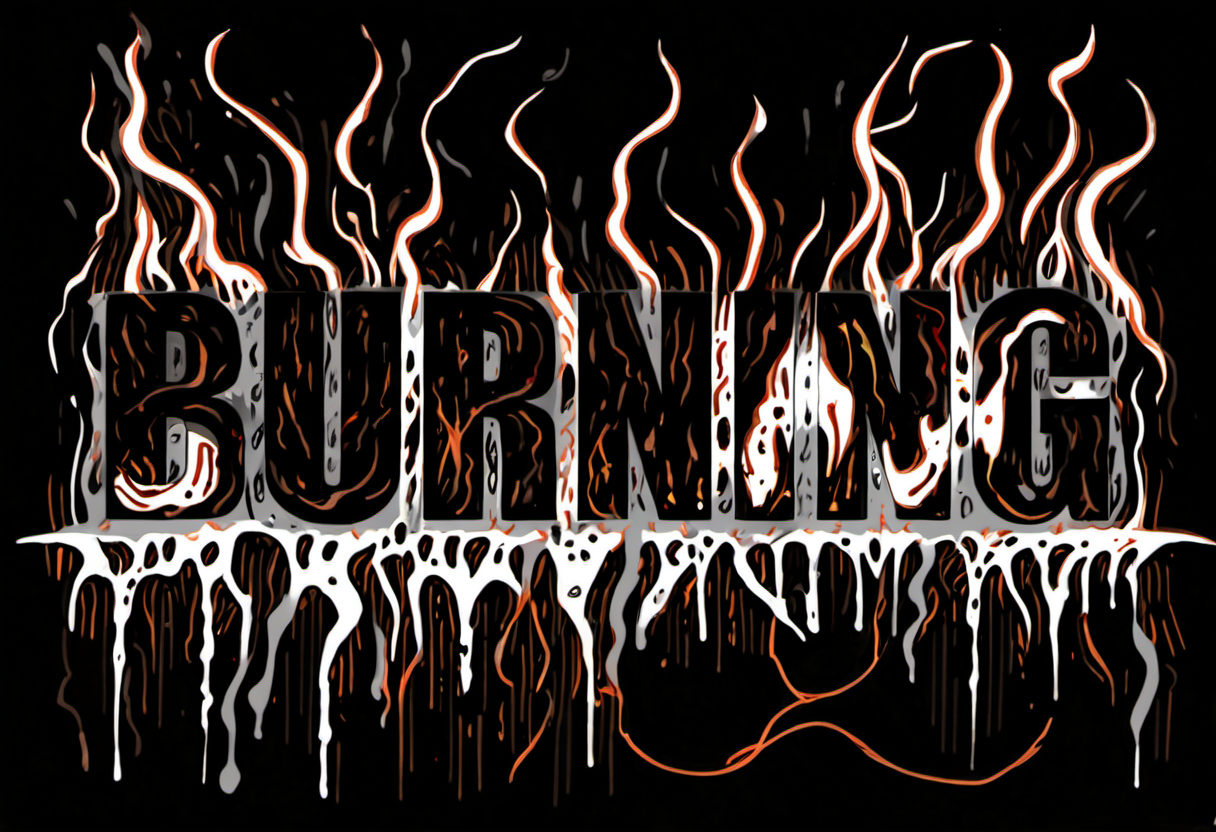
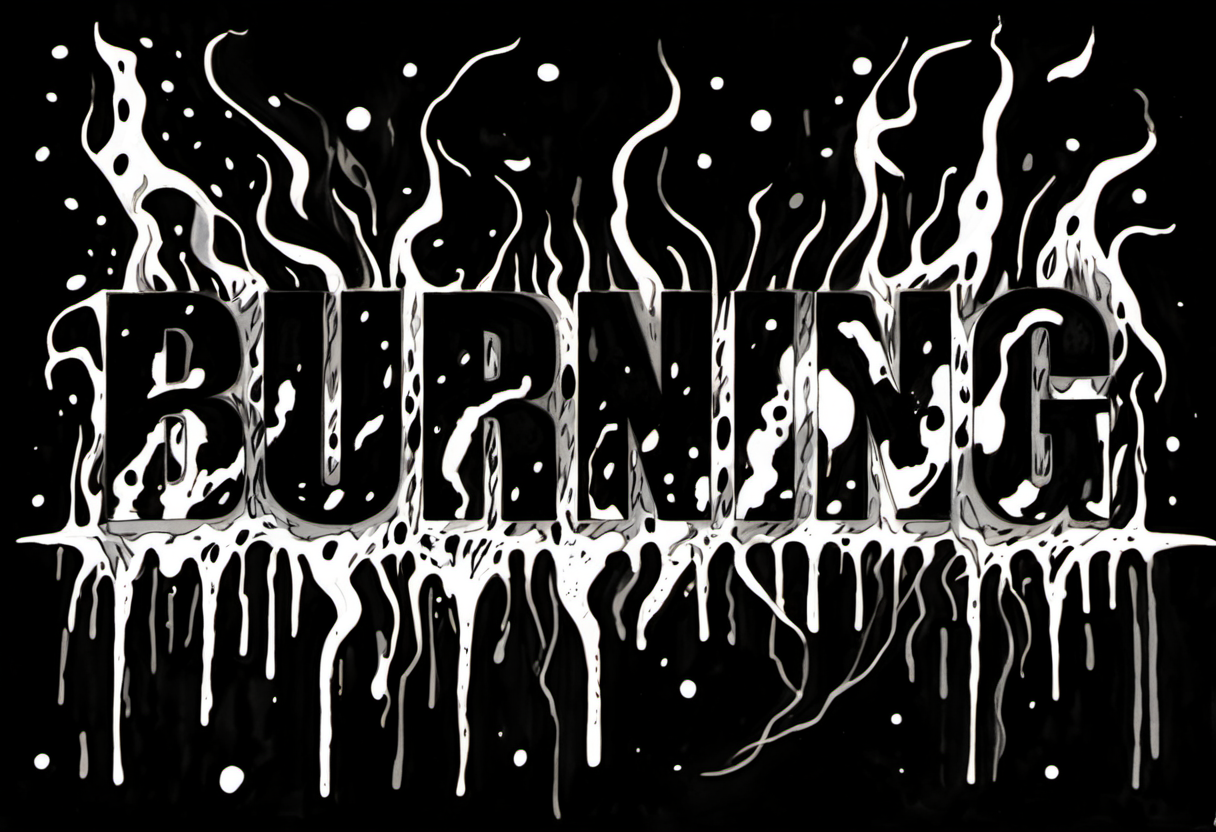
proof(BLUELINE): ink pass complete — all 7 voices shifted to pen-and-ink on black
Finished the stylize-last pass across the suite at denoise 0.85 (canny holds the letters,
higher denoise burns off residual color). Clean: NO (white splatter-burst) · too late
(bone flowing strokes) · stay (radiating scratchboard engraving) · THOOM (woodcut speed-line
burst) · was it real (cold ink drips) · BURNING (white-ink flame-tendrils). ASCENSION is
legible but keeps an inky flourish above (the ghost, restyled) — wants a ghost-free photoreal
seed first.

Fix: the stylize prompt no longer feeds the per-voice `gesture` (it named the photoreal
material — fire/blood/embers — and re-injected it through the ink pass; BURNING stayed on fire
until dropped). emotion + ink_style carry the motion. The two-stage text pipeline is now whole.

Palace-Kind: ops
Palace-Verify: couldnt
Palace-Author: loudon
Palace-Annotated: commit-msg-hook

diff --git a/Projects/BLUELINE/proofs/text-layer/contact-sheet.html b/Projects/BLUELINE/proofs/text-layer/contact-sheet.html
@@ -1,1 +1,1 @@
-<!doctype html><meta charset=utf-8><title>BLUELINE — gen-AI text · contact sheet</title><style>body{background:#0b0b0d;color:#e9e7e2;font-family:JetBrains Mono,monospace;margin:0;padding:24px}h1{font-family:Anton,Impact,sans-serif;letter-spacing:.04em}section{margin:0 0 28px}h2{font-size:13px;color:#e0a83a;font-weight:400}h2 span{color:#8b8d96}h2 em{color:#e9e7e2;font-style:normal}.row{display:flex;gap:10px;flex-wrap:wrap}figure{margin:0}img{height:210px;background:#000;border:1px solid #2c2e36;border-radius:6px;display:block}figcaption{font-size:9px;color:#6a6c75;margin-top:3px}</style><h1>BLUELINE · gen-AI text on black — pick the keepers</h1><section><h2>ascension · <span>title · the system / author · awe, dread, ascent</span> <em>"ASCENSION"</em></h2><div class="row"><figure><img src="out/ascension_skeleton_s1111.png"><figcaption>ascension_skeleton_s1111.png</figcaption></figure></div></section><section><h2>shout-no · <span>dialogue · the hero's mouth · fury, anguish (max intensity)</span> <em>"NO"</em></h2><div class="row"><figure><img src="out/shout-no_skeleton_s1111.png"><figcaption>shout-no_skeleton_s1111.png</figcaption></figure><figure><img src="out/shout-no_stylize_s1111.png"><figcaption>shout-no_stylize_s1111.png</figcaption></figure></div></section><section><h2>whisper-stay · <span>dialogue · the dying woman's mouth · tenderness, fading (min intensity)</span> <em>"stay"</em></h2><div class="row"><figure><img src="out/whisper-stay_skeleton_s1111.png"><figcaption>whisper-stay_skeleton_s1111.png</figcaption></figure></div></section><section><h2>sfx-thoom · <span>sfx · the impact / the world · concussive force</span> <em>"THOOM"</em></h2><div class="row"><figure><img src="out/sfx-thoom_s1111.png"><figcaption>sfx-thoom_s1111.png</figcaption></figure><figure><img src="out/sfx-thoom_skeleton_s1111.png"><figcaption>sfx-thoom_skeleton_s1111.png</figcaption></figure></div></section><section><h2>dying-toolate · <span>voiceover / interior · the hero, hollowed · grief, collapse, letting go</span> <em>"too late"</em></h2><div class="row"><figure><img src="out/dying-toolate_skeleton_s1111.png"><figcaption>dying-toolate_skeleton_s1111.png</figcaption></figure><figure><img src="out/dying-toolate_stylize_s1111.png"><figcaption>dying-toolate_stylize_s1111.png</figcaption></figure></div></section><section><h2>lyric-burning · <span>lyric · the song · longing, heat, rising</span> <em>"BURNING"</em></h2><div class="row"><figure><img src="out/lyric-burning_skeleton_s1111.png"><figcaption>lyric-burning_skeleton_s1111.png</figcaption></figure><figure><img src="out/lyric-burning_stylize_s1111.png"><figcaption>lyric-burning_stylize_s1111.png</figcaption></figure></div></section><section><h2>thought-real · <span>thought / interior · the hero's mind · doubt, dissociation, cold</span> <em>"was it real"</em></h2><div class="row"><figure><img src="out/thought-real_skeleton_s1111.png"><figcaption>thought-real_skeleton_s1111.png</figcaption></figure></div></section>
+<!doctype html><meta charset=utf-8><title>BLUELINE — gen-AI text · contact sheet</title><style>body{background:#0b0b0d;color:#e9e7e2;font-family:JetBrains Mono,monospace;margin:0;padding:24px}h1{font-family:Anton,Impact,sans-serif;letter-spacing:.04em}section{margin:0 0 28px}h2{font-size:13px;color:#e0a83a;font-weight:400}h2 span{color:#8b8d96}h2 em{color:#e9e7e2;font-style:normal}.row{display:flex;gap:10px;flex-wrap:wrap}figure{margin:0}img{height:210px;background:#000;border:1px solid #2c2e36;border-radius:6px;display:block}figcaption{font-size:9px;color:#6a6c75;margin-top:3px}</style><h1>BLUELINE · gen-AI text on black — pick the keepers</h1><section><h2>ascension · <span>title · the system / author · awe, dread, ascent</span> <em>"ASCENSION"</em></h2><div class="row"><figure><img src="out/ascension_skeleton_s1111.png"><figcaption>ascension_skeleton_s1111.png</figcaption></figure><figure><img src="out/ascension_stylize_s1111.png"><figcaption>ascension_stylize_s1111.png</figcaption></figure></div></section><section><h2>shout-no · <span>dialogue · the hero's mouth · fury, anguish (max intensity)</span> <em>"NO"</em></h2><div class="row"><figure><img src="out/shout-no_skeleton_s1111.png"><figcaption>shout-no_skeleton_s1111.png</figcaption></figure><figure><img src="out/shout-no_stylize_s1111.png"><figcaption>shout-no_stylize_s1111.png</figcaption></figure></div></section><section><h2>whisper-stay · <span>dialogue · the dying woman's mouth · tenderness, fading (min intensity)</span> <em>"stay"</em></h2><div class="row"><figure><img src="out/whisper-stay_skeleton_s1111.png"><figcaption>whisper-stay_skeleton_s1111.png</figcaption></figure><figure><img src="out/whisper-stay_stylize_s1111.png"><figcaption>whisper-stay_stylize_s1111.png</figcaption></figure></div></section><section><h2>sfx-thoom · <span>sfx · the impact / the world · concussive force</span> <em>"THOOM"</em></h2><div class="row"><figure><img src="out/sfx-thoom_s1111.png"><figcaption>sfx-thoom_s1111.png</figcaption></figure><figure><img src="out/sfx-thoom_skeleton_s1111.png"><figcaption>sfx-thoom_skeleton_s1111.png</figcaption></figure><figure><img src="out/sfx-thoom_stylize_s1111.png"><figcaption>sfx-thoom_stylize_s1111.png</figcaption></figure></div></section><section><h2>dying-toolate · <span>voiceover / interior · the hero, hollowed · grief, collapse, letting go</span> <em>"too late"</em></h2><div class="row"><figure><img src="out/dying-toolate_skeleton_s1111.png"><figcaption>dying-toolate_skeleton_s1111.png</figcaption></figure><figure><img src="out/dying-toolate_stylize_s1111.png"><figcaption>dying-toolate_stylize_s1111.png</figcaption></figure></div></section><section><h2>lyric-burning · <span>lyric · the song · longing, heat, rising</span> <em>"BURNING"</em></h2><div class="row"><figure><img src="out/lyric-burning_skeleton_s1111.png"><figcaption>lyric-burning_skeleton_s1111.png</figcaption></figure><figure><img src="out/lyric-burning_stylize_s1111.png"><figcaption>lyric-burning_stylize_s1111.png</figcaption></figure></div></section><section><h2>thought-real · <span>thought / interior · the hero's mind · doubt, dissociation, cold</span> <em>"was it real"</em></h2><div class="row"><figure><img src="out/thought-real_skeleton_s1111.png"><figcaption>thought-real_skeleton_s1111.png</figcaption></figure><figure><img src="out/thought-real_stylize_s1111.png"><figcaption>thought-real_stylize_s1111.png</figcaption></figure></div></section>

diff --git a/Projects/BLUELINE/proofs/text-layer/render_text.py b/Projects/BLUELINE/proofs/text-layer/render_text.py
@@ -146,7 +146,9 @@ def main(only, seeds, mode, denoise):
                 if not os.path.exists(src):
                     print(f'  [{p["id"]}] s{sd}: no photoreal {os.path.basename(src)} — run --mode skeleton first', flush=True); continue
                 init_name = upload(desaturate(src, os.path.join(DESAT, f'{p["id"]}_s{sd}.png')))
-                full = f'the word "{p["words"]}" — {p["emotion"]}, {p["gesture"]}, {INK}'
+                # NB: do NOT feed the photoreal `gesture` here — it names the photoreal material
+                # (fire/blood/embers) and re-injects it through the ink pass. emotion + ink_style carry the motion.
+                full = f'the word "{p["words"]}" — {p["emotion"]}, {INK}'
                 dn = denoise
             else:
                 full = f'{p["positive"]}, {STYLE}'
